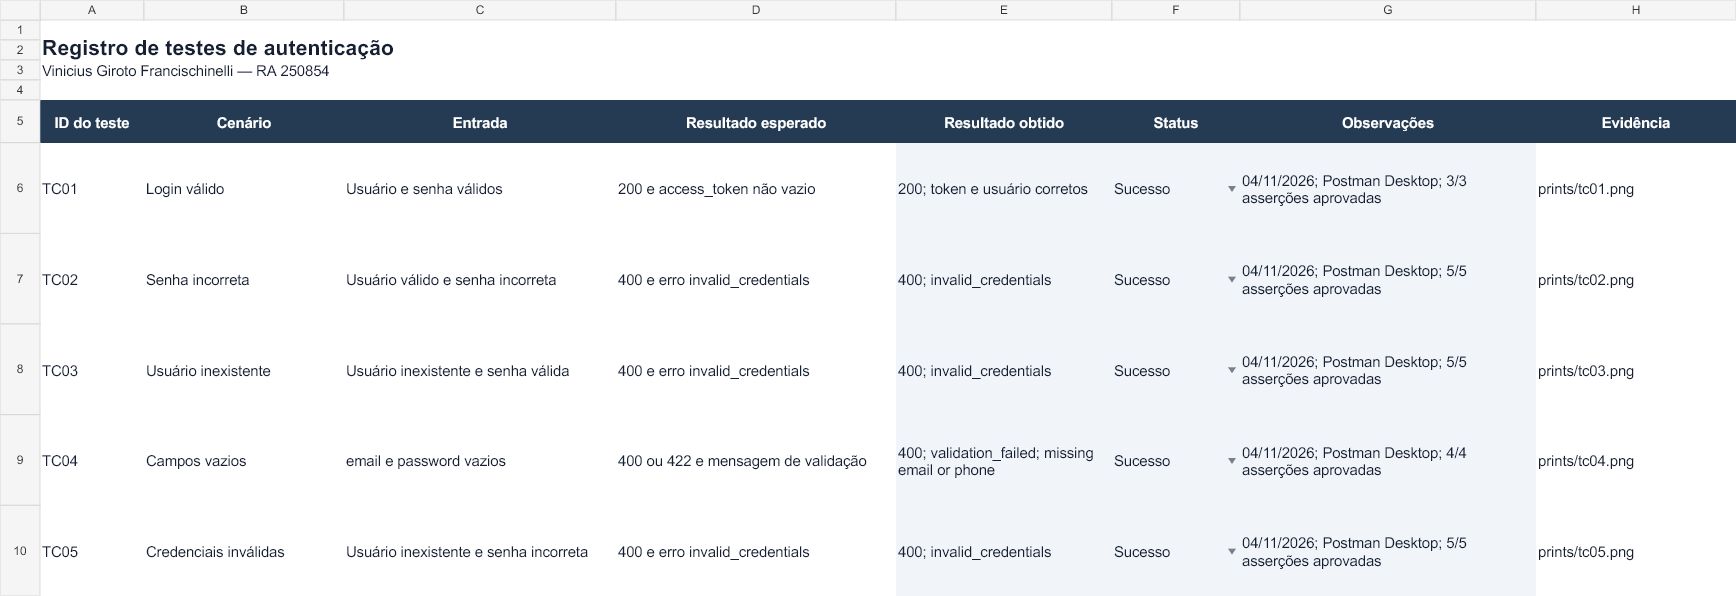
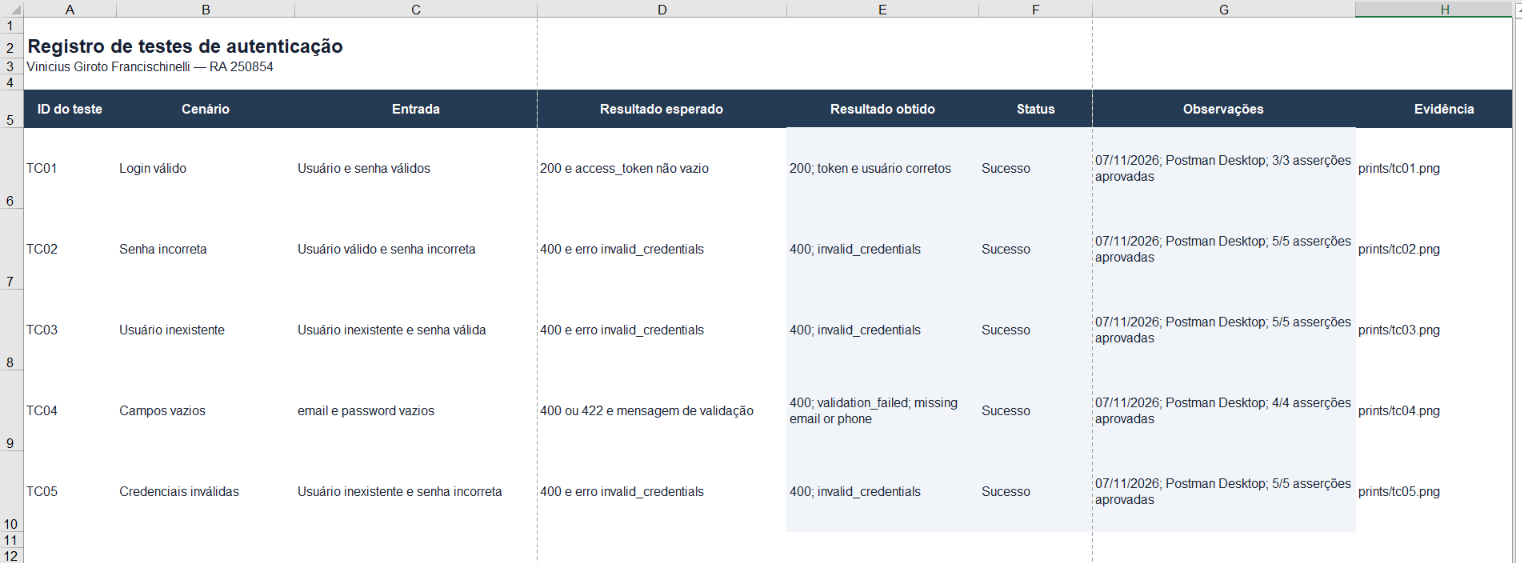
Atualiza relato em primeira pessoa e evidencias do aluno em 07-11-2026

diff --git a/README.md b/README.md
@@ -1,82 +1,103 @@
 # Introdução
 
-Testes de caixa cinza na API de autenticação do Supabase, executados no Postman Desktop em **04/11/2026**.
-
 **Aluno:** Vinicius Giroto Francischinelli  
 **RA:** 250854
 
-Foram exercitados cinco cenários de login por e-mail e senha. Todos atenderam às expectativas, com **22 de 22 asserções aprovadas**. A execução no Postman e a documentação foram realizadas com assistência de automação, a pedido do aluno. As evidências são capturas reais do ambiente.
+Nesta atividade, realizei testes de caixa cinza na API de autenticação do Supabase usando o Postman Desktop. Configurei um ambiente com autenticação por e-mail e senha e executei cinco cenários para verificar o comportamento da API com dados válidos e inválidos.
+
+Executei os testes apresentados neste relatório em **07/11/2026**. Todos os cenários tiveram o resultado esperado, com **22 de 22 asserções aprovadas**. Os prints deste repositório foram tirados por mim durante a atividade.
 
 # Objetivo da Atividade
 
-Aplicar testes de caixa cinza conhecendo o contrato externo da API: URL, endpoint, autenticação, headers, corpo JSON e respostas HTTP. Validar a emissão de sessão para um usuário válido e a rejeição de entradas incorretas, sem consultar o código interno do serviço.
+Meu objetivo foi aplicar testes de caixa cinza em uma API, utilizando informações conhecidas sobre o sistema, como endpoint, headers, autenticação e corpo JSON, sem acessar seu código interno.
 
-Ferramentas utilizadas: Supabase, Postman Desktop e GitHub. Nenhuma interface gráfica própria foi implementada.
+Verifiquei os status HTTP, as respostas JSON, as mensagens de erro e a emissão de access token. Para isso, utilizei Supabase, Postman Desktop e GitHub. A atividade não exigiu a criação de uma interface gráfica.
 
 # Configuração do Supabase
 
-O projeto **Teste Caixa Cinza**, identificador `bnapcplupozwkilcqzyi`, foi disponibilizado pelo aluno. O painel confirmou estado saudável e região West US (Oregon). A criação inicial do projeto não foi acompanhada durante esta execução. Para reproduzir a configuração: criar um projeto no painel do Supabase, definir nome, região e senha do banco e aguardar o provisionamento.
+Criei o projeto pelo formulário **New project**, na organização **Teste Caixa Cinza**. Informei o nome **Teste Caixa Cinza**, defini uma senha para o banco de dados e selecionei **Americas** como região. Depois do provisionamento, o projeto ficou na região **West US (Oregon)**.
 
-![Projeto e painel do Supabase](prints/supabase-projeto.png)
+O print abaixo mostra o formulário que utilizei. Os campos estão vazios porque voltei à tela para documentar o processo; não criei outro projeto.
 
-Foi utilizada autenticação por **e-mail e senha**, com o provedor Email habilitado e a opção de confirmação de e-mail ativa. A finalidade é oferecer um serviço real para comparar entradas e respostas de autenticação.
+![Formulário utilizado para criar o projeto](prints/supabase-projeto.png)
 
-![Autenticação por e-mail habilitada](prints/supabase-email.png)
+Em **Authentication → Sign In / Providers**, utilizei o provedor **Email**, que está habilitado. A opção **Confirm email** também está ativa.
 
-O usuário de teste foi disponibilizado com suas credenciais e verificado em Authentication → Users. O painel registra sua criação em **04/11/2026 às 17:46:22, UTC−03** e o provedor Email. O login válido também retornou os campos `email_confirmed_at` e `confirmed_at`. A tela de cadastro original não foi capturada. Para reproduzir, criar um usuário de testes por e-mail e senha e concluir a confirmação de e-mail antes do login.
+![Provedor Email habilitado e confirmação de e-mail ativa](prints/supabase-email.png)
 
-![Usuário cadastrado no Supabase](prints/supabase-usuario.png)
+Criei o usuário de teste pelo painel **Authentication → Users → Add user**, informando e-mail e senha. Esse usuário foi utilizado no cenário de login válido. O cadastro pode ser conferido no painel abaixo.
 
-| Informação | Valor |
+![Usuário criado no painel Authentication](prints/supabase-usuario.png)
+
+| Configuração | Valor utilizado |
 | --- | --- |
+| Projeto | Teste Caixa Cinza |
+| Identificador | `bnapcplupozwkilcqzyi` |
 | API URL | `https://bnapcplupozwkilcqzyi.supabase.co` |
-| Tipo da API key | Publishable (`sb_publishable_...`) |
-| Usuário de teste | Identificado na captura e configurado apenas no Environment local |
-| Identificação do aluno | Vinicius Giroto Francischinelli, RA 250854; coleção e Environment identificados no Postman |
+| Autenticação | E-mail e senha |
+| API key usada na execução final | Chave pública `anon` legada, em formato JWT |
 
-![Identificação da chave pública da API](prints/supabase-api.png)
+Obtive a chave pública em **Settings → API Keys → View legacy API keys**. Na execução final, usei a chave `anon` para enviar os três headers pedidos no enunciado. A URL e a chave configuradas podem ser conferidas no print do Environment, na próxima seção.
 
-A senha do banco PostgreSQL não é uma credencial de login do Supabase Auth. Senhas de usuário, senha do banco, chaves privilegiadas e tokens completos não fazem parte desta entrega.
+O objetivo dessa configuração foi disponibilizar uma API real de autenticação para os testes. A senha do banco é diferente da senha do usuário de autenticação. Não incluí senhas, chaves privilegiadas ou tokens de sessão completos nos arquivos públicos.
 
 # Configuração do Postman
 
-Foi utilizado o Workspace pessoal **My Workspace**, já existente, onde foi importada a coleção **Testes caixa cinza — Vinicius — RA 250854**. Para reproduzir a organização, abrir ou criar um Workspace e importar os dois arquivos da pasta `postman/`.
+No Postman Desktop, criei o Workspace **Teste Caixa Cinza - Vinicius - RA250854**. Usei meu nome e RA para identificar o ambiente da atividade.
 
-O Environment **Supabase — RA 250854 — local** foi importado, preenchido com as credenciais fornecidas e selecionado antes do envio. As senhas foram configuradas como variáveis sensíveis. O modelo público exportado está sem credenciais.
+![Workspace criado e identificado](prints/postman-workspace.png)
+
+Importei a coleção **Testes caixa cinza — Vinicius — RA 250854**, que reúne as cinco requisições, e o Environment **Supabase — RA 250854 — local**.
+
+![Coleção organizada com os cinco cenários e Environment selecionado](prints/postman-colecao.png)
+
+Configurei as seguintes variáveis:
 
 | Variável | Finalidade |
 | --- | --- |
-| `base_url` | URL HTTPS do projeto, sem barra final |
-| `api_key` | Chave pública publishable do projeto |
-| `email` | E-mail do usuário válido |
-| `password` | Senha do usuário válido |
-| `wrong_password` | Senha deliberadamente diferente da senha válida |
-| `nonexistent_email` | `nao-existe-ra250854@example.invalid`, diferente do usuário cadastrado |
+| `base_url` | Armazenar a URL da API do Supabase |
+| `api_key` | Armazenar a chave pública `anon` do projeto |
+| `email` | Armazenar o e-mail do usuário válido |
+| `password` | Armazenar a senha do usuário válido |
+| `wrong_password` | Usar uma senha diferente da senha correta nos testes negativos |
+| `nonexistent_email` | Usar um endereço inexistente no projeto |
 
-![Environment com senhas ocultas](prints/postman-environment.png)
+![Environment configurado com a chave anon e senhas ocultas](prints/postman-environment.png)
 
-A coleção contém cinco requisições e scripts de validação. O script anterior ao envio verifica as variáveis necessárias e evita que a senha incorreta ou o usuário inexistente coincidam com as credenciais válidas. Antes da execução houve um erro local por Environment não selecionado; ele foi corrigido selecionando o Environment preenchido.
+Antes de enviar as requisições, selecionei o Environment no canto superior direito. Usei variáveis para reaproveitar os dados entre os testes e mantive as senhas ocultas. O Postman foi utilizado para enviar os pedidos, visualizar as respostas e executar as asserções da coleção.
 
-Arquivos para reprodução: [coleção](postman/autenticacao.postman_collection.json) e [modelo de Environment](postman/supabase.postman_environment.json). Importar no Postman Desktop, preencher as credenciais localmente e selecionar o Environment.
+Os arquivos para importar estão em [coleção de testes](postman/autenticacao.postman_collection.json) e [modelo de Environment](postman/supabase.postman_environment.json). O modelo público está sem credenciais e precisa ser preenchido localmente.
 
 # Configuração das Requisições
 
-**Método:** `POST`  
-**Endpoint:** `{{base_url}}/auth/v1/token?grant_type=password`
+Criei requisições com o método **POST** para o endpoint:
 
-O endpoint solicita uma sessão a partir do e-mail e da senha. O parâmetro `grant_type=password` identifica esse fluxo.
+```text
+{{base_url}}/auth/v1/token?grant_type=password
+```
+
+Esse endpoint solicita uma sessão de autenticação a partir do e-mail e da senha. Configurei os seguintes headers:
 
 | Header | Valor |
 | --- | --- |
-| `apikey` | `{{api_key}}` — representado como XXXXX em exemplos públicos |
+| `apikey` | `{{api_key}}` — XXXXX em exemplos sem credenciais |
+| `Authorization` | `Bearer {{api_key}}` |
 | `Content-Type` | `application/json` |
-| `Authorization` | `Bearer {{api_key}}`, apenas no modo de chave anon JWT legada |
 
-O template contém os três headers previstos no enunciado. Como esta execução usou uma chave **publishable**, o script removeu Authorization antes do envio. Publishable key identifica o projeto em `apikey` e não deve ser tratada como JWT Bearer. A coleção também admite uma chave pública anon JWT legada e, nesse caso, mantém Authorization.
+Na execução final, a variável `api_key` contém a chave pública `anon` legada. O script de preparação da coleção mantém o header Authorization quando essa chave é utilizada. A coleção também permite uma chave publishable, mas nesse caso remove Authorization antes do envio.
 
-![Headers configurados na coleção](prints/postman-headers.png)
+![Três headers configurados e login com HTTP 200](prints/postman-headers.png)
 
-Exemplo ilustrativo de body, sem credenciais reais:
+Configurei o corpo no formato **raw → JSON**. No cenário válido, utilizei:
+
+```json
+{
+  "email": "{{email}}",
+  "password": "{{password}}"
+}
+```
+
+Um exemplo ilustrativo, sem dados reais, seria:
 
 ```json
 {
@@ -85,75 +106,78 @@ Exemplo ilustrativo de body, sem credenciais reais:
 }
 ```
 
-No cenário válido, a coleção usa `{{email}}` e `{{password}}`. Os cenários negativos alteram os valores do corpo e preservam a API key válida, para que o teste avalie as credenciais do usuário.
+Nos testes negativos, alterei os valores do corpo conforme cada cenário, mantendo a API key válida. No TC05, por exemplo, usei `{{nonexistent_email}}` e `{{wrong_password}}`.
 
-![Body JSON do cenário com credenciais inválidas](prints/postman-body.png)
+![Corpo JSON do cenário de credenciais inválidas](prints/postman-body.png)
 
 # Execução dos Testes
 
-As requisições foram enviadas no **Postman Desktop** contra o projeto real. Foram verificados status HTTP, estrutura JSON, mensagens, presença ou ausência do access token e, no login válido, correspondência do e-mail retornado. Cada cenário teve suas asserções executadas pelo Postman.
+Executei os cinco cenários no Postman Desktop. Para cada um, enviei a requisição pelo botão **Send** e conferi o status HTTP, o JSON e o resultado em **Test Results**.
 
 | ID | Cenário | Entrada utilizada | Resultado esperado | Resultado obtido | Status |
 | --- | --- | --- | --- | --- | --- |
-| TC01 | Login válido | E-mail cadastrado e senha correta | 200, token e usuário correto | 200; token, bearer e e-mail corretos; 3/3 asserções | Sucesso |
-| TC02 | Senha incorreta | E-mail cadastrado e `wrong_password` | 400, invalid_credentials e sem token | 400; invalid_credentials; 5/5 asserções | Sucesso |
-| TC03 | Usuário inexistente | `nonexistent_email` e senha válida | 400, invalid_credentials e sem token | 400; invalid_credentials; 5/5 asserções | Sucesso |
-| TC04 | Campos vazios | email e password como strings vazias | 400 ou 422, validação e sem token | 400; validation_failed; missing email or phone; 4/4 asserções | Sucesso |
-| TC05 | Credenciais inválidas | `nonexistent_email` e `wrong_password` | 400, invalid_credentials e sem token | 400; invalid_credentials; 5/5 asserções | Sucesso |
+| TC01 | Login válido | E-mail cadastrado e senha correta | HTTP 200, access token e usuário correto | HTTP 200, token e usuário correto; 3/3 asserções | Sucesso |
+| TC02 | Senha incorreta | E-mail válido e `wrong_password` | Erro de autenticação e ausência de token | HTTP 400, `invalid_credentials`; 5/5 asserções | Sucesso |
+| TC03 | Usuário inexistente | `nonexistent_email` e senha válida | Acesso negado e ausência de token | HTTP 400, `invalid_credentials`; 5/5 asserções | Sucesso |
+| TC04 | Campos vazios | `email` e `password` vazios | Erro de validação e ausência de token | HTTP 400, `validation_failed`, `missing email or phone`; 4/4 asserções | Sucesso |
+| TC05 | Credenciais inválidas | `nonexistent_email` e `wrong_password` | Mensagem de erro e ausência de token | HTTP 400, `invalid_credentials`; 5/5 asserções | Sucesso |
 
-**TC01 — Login válido.** A API retornou sessão e usuário. Os valores de access token e refresh token foram ocultados na captura; status, nomes dos campos e resultados dos testes foram preservados.
+**TC01 — Login válido:** recebi HTTP 200 e um access token. As três asserções foram aprovadas. Os valores dos tokens foram ocultados apenas na imagem publicada.
 
-![TC01: login válido](prints/tc01.png)
+![TC01: login válido com HTTP 200 e 3/3 asserções](prints/tc01.png)
 
-**TC02 — Senha incorreta.** A API negou o login com `Invalid login credentials` e não emitiu token.
+**TC02 — Senha incorreta:** recebi HTTP 400 e a mensagem `Invalid login credentials`, sem emissão de token.
 
-![TC02: senha incorreta](prints/tc02.png)
+![TC02: senha incorreta com HTTP 400 e 5/5 asserções](prints/tc02.png)
 
-**TC03 — Usuário inexistente.** A combinação com o endereço de teste inexistente também foi rejeitada, com a mesma mensagem genérica.
+**TC03 — Usuário inexistente:** o login também foi negado com HTTP 400 e `invalid_credentials`.
 
-![TC03: usuário inexistente](prints/tc03.png)
+![TC03: usuário inexistente com HTTP 400 e 5/5 asserções](prints/tc03.png)
 
-**TC04 — Campos vazios.** A API retornou `validation_failed` e `missing email or phone`. Como o e-mail já falhou na validação, a resposta não detalhou separadamente a ausência da senha.
+**TC04 — Campos vazios:** a API retornou HTTP 400, código `validation_failed` e mensagem `missing email or phone`.
 
-![TC04: campos vazios](prints/tc04.png)
+![TC04: campos vazios com HTTP 400 e 4/4 asserções](prints/tc04.png)
 
-**TC05 — Credenciais inválidas.** E-mail inexistente combinado com senha incorreta foi rejeitado com `invalid_credentials`.
+**TC05 — Credenciais inválidas:** ao combinar e-mail inexistente e senha incorreta, recebi HTTP 400 e `Invalid login credentials`.
 
-![TC05: credenciais inválidas](prints/tc05.png)
+![TC05: credenciais inválidas com HTTP 400 e 5/5 asserções](prints/tc05.png)
 
-Para repetir: selecionar o Environment, abrir cada requisição, clicar em Send e conferir a aba Test Results. Uma resposta 400 é **sucesso do teste negativo** quando corresponde à rejeição esperada. Erros de API key, rede ou limite de tentativas não devem ser contabilizados como rejeição correta das credenciais.
+Nos cenários negativos, o HTTP 400 representa o comportamento esperado, por isso registrei os testes como sucesso. Não encontrei divergências entre os resultados esperados e os obtidos nesses cinco cenários.
 
 # Registro dos Testes
 
-Os resultados foram registrados na [planilha de testes](planilha/registro-testes.xlsx), com ID, cenário, entrada, resultado esperado, resultado obtido, status, observações e evidência correspondente. Nas observações estão a data da execução e o número de asserções aprovadas.
+Registrei os testes na [planilha de testes](planilha/registro-testes.xlsx), preenchendo ID, cenário, entrada, resultado esperado, resultado obtido, status, observações e caminho da evidência. Nas observações, informei a data **07/11/2026** e a quantidade de asserções aprovadas.
 
-![Planilha preenchida com resultados reais](prints/planilha.png)
+![Planilha preenchida aberta no aplicativo de planilhas](prints/planilha.png)
 
-Esse registro liga cada conclusão ao cenário e ao print correspondente. As entradas descrevem as condições sem divulgar senhas. Não foram identificadas divergências funcionais nos cinco cenários. O erro de seleção do Environment foi um problema de preparação local, corrigido antes das execuções válidas.
+Por exemplo, no TC01 registrei HTTP 200 e a confirmação de token e usuário correto. No TC04, registrei HTTP 400 e a mensagem de validação recebida. Esse registro permite relacionar cada resultado ao seu cenário e à evidência correspondente.
+
+Considero essa documentação importante porque facilita a revisão dos testes e a comparação com execuções futuras. Não identifiquei falhas funcionais nos casos avaliados.
 
 # Resultados Obtidos
 
 | Indicador | Resultado |
 | --- | --- |
+| Data da execução final | 07/11/2026 |
 | Cenários executados | 5 |
 | Cenários aprovados | 5 |
 | Asserções aprovadas | 22 de 22 |
-| Login válido | HTTP 200 com sessão e usuário correto |
-| Entradas inválidas | HTTP 400, mensagem e ausência de token |
-| Divergências funcionais | Nenhuma observada no escopo testado |
+| Login válido | HTTP 200, token e usuário correto |
+| Cenários negativos | HTTP 400 com mensagem de erro e sem token |
+| Falhas funcionais identificadas | Nenhuma nos cenários testados |
 
-Senha incorreta e usuário inexistente receberam a mesma mensagem. Esse comportamento evita revelar, pelo texto do erro, se o e-mail tem conta. O conhecimento parcial do projeto e das variáveis permitiu distinguir os cenários mesmo com respostas equivalentes.
+Observei que senha incorreta e usuário inexistente retornam a mesma mensagem genérica. Isso evita informar diretamente se determinado e-mail está cadastrado. Mesmo com respostas semelhantes, os cenários são diferentes pelas entradas utilizadas.
 
-As imagens foram capturadas do ambiente real. Os prints do Postman foram refeitos com janela maximizada e recortados sem redimensionamento para remover cursor, outras atividades e áreas externas à evidência. Somente valores de tokens foram mascarados. A imagem da planilha é uma renderização do arquivo preenchido, não uma captura do aplicativo Excel.
+Todos os prints apresentados foram capturados por mim. Mantive os arquivos na resolução original e ocultei apenas os valores dos tokens nas imagens de login. A imagem da planilha mostra o arquivo preenchido aberto no aplicativo.
 
 # Conclusão
 
-Os cinco cenários foram executados no Postman Desktop e atenderam aos critérios definidos. A autenticação emitiu uma sessão para o usuário válido, rejeitou as combinações de credenciais incorretas e validou campos vazios. Não foi observada falha funcional nesses casos.
+Consegui executar os cinco cenários no Postman Desktop e verificar o funcionamento da autenticação. O usuário válido recebeu uma sessão, enquanto as entradas incorretas foram rejeitadas. Todos os testes tiveram os resultados esperados.
 
-As dificuldades foram distinguir a senha do banco da senha do usuário, selecionar o Environment correto, adequar o header Authorization ao tipo de API key e produzir capturas legíveis sem expor tokens. Essas questões foram resolvidas na preparação e na documentação.
+Durante a configuração, precisei entender a diferença entre a senha do banco e a senha do usuário, selecionar o Environment correto e distinguir a chave publishable da chave pública anon. Na execução final, utilizei a anon para manter os três headers previstos na atividade.
 
-Como melhorias de cobertura, recomenda-se testar separadamente e-mail vazio e senha vazia, e-mail não confirmado, expiração de sessão, refresh token, logout, MFA e limites de tentativas. Os resultados atuais não demonstram a segurança completa da API, pois representam somente cinco cenários funcionais.
+Não encontrei falhas funcionais nos cenários avaliados. Como melhoria, eu acrescentaria testes de senha vazia e e-mail vazio separadamente, e-mail não confirmado, expiração de sessão, refresh token, logout e limite de tentativas. Os cinco testes realizados não cobrem todas as situações possíveis da API.
 
-Os testes de caixa cinza permitem relacionar configurações conhecidas com o comportamento externo da API, verificar o contrato e documentar resultados reproduzíveis.
+A atividade me ajudou a compreender como os testes de caixa cinza utilizam informações parciais do sistema para verificar seu comportamento externo. Conhecer o endpoint, os headers e os dados de entrada foi necessário para interpretar as respostas e registrar os resultados.
 
-Referências técnicas: [Supabase Auth por senha](https://supabase.com/docs/guides/auth/passwords) e [API keys](https://supabase.com/docs/guides/getting-started/api-keys).
+Referências utilizadas: [Supabase Auth por senha](https://supabase.com/docs/guides/auth/passwords) e [chaves de API do Supabase](https://supabase.com/docs/guides/getting-started/api-keys).
